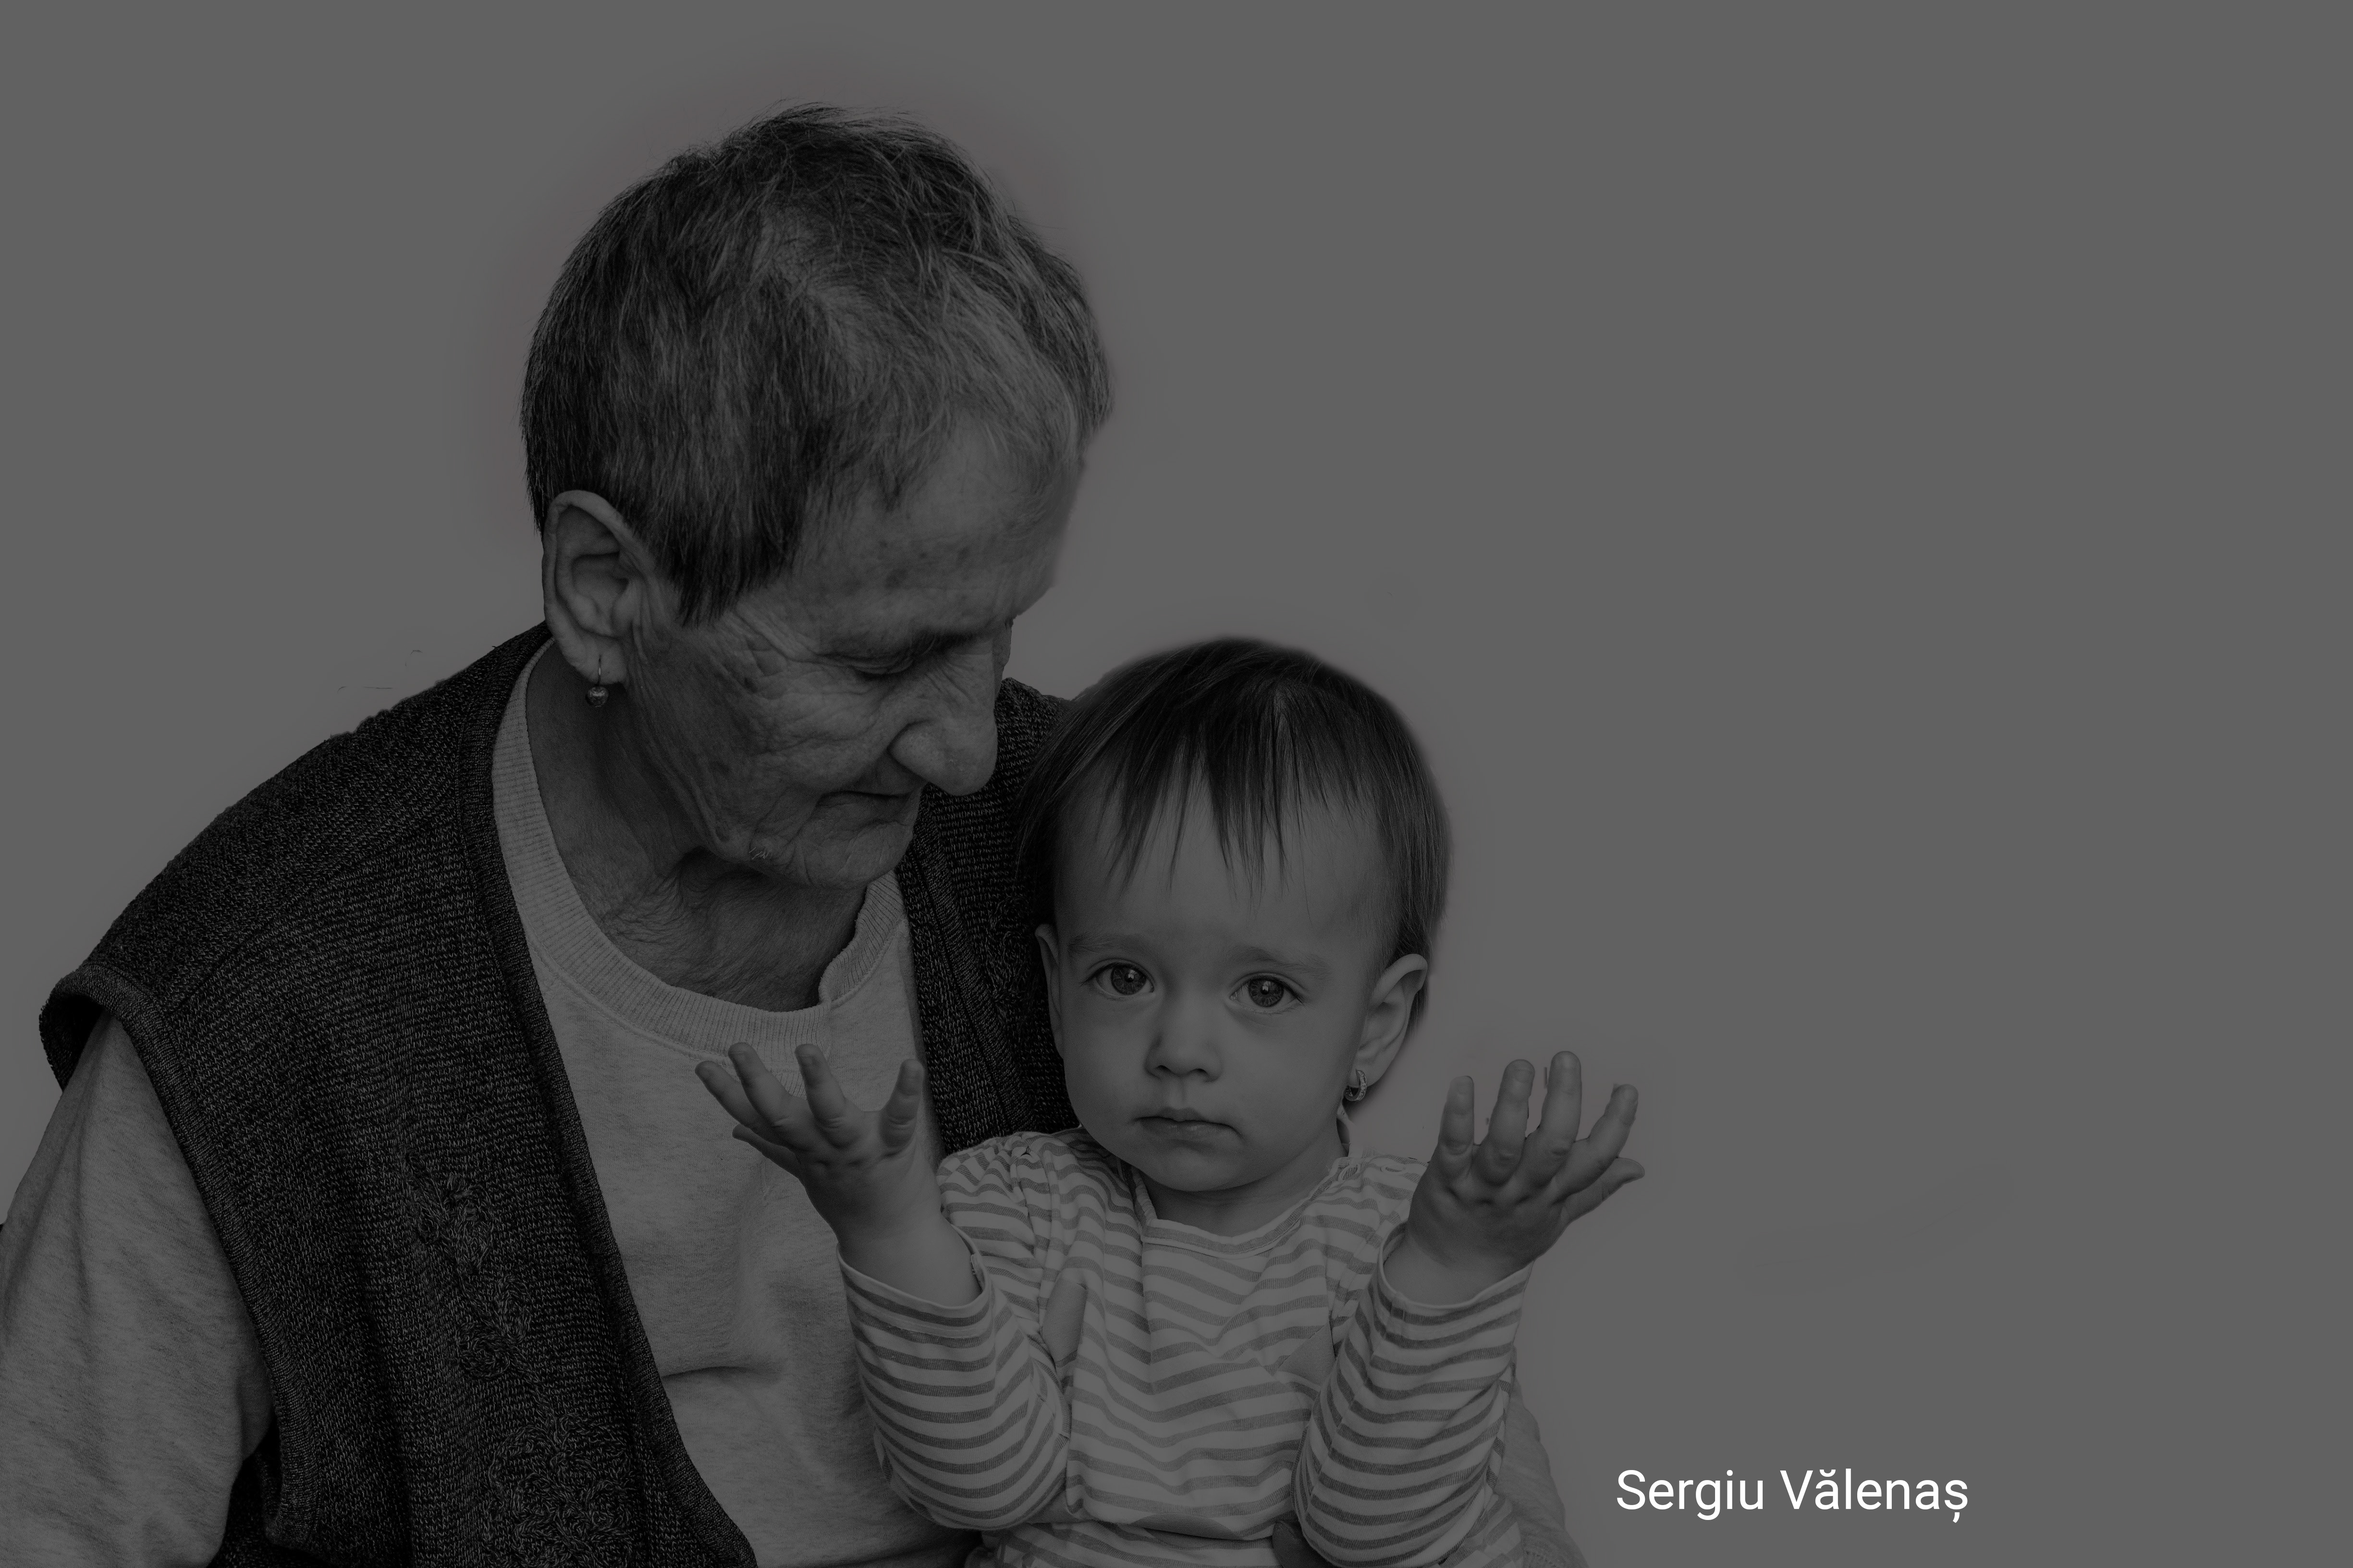
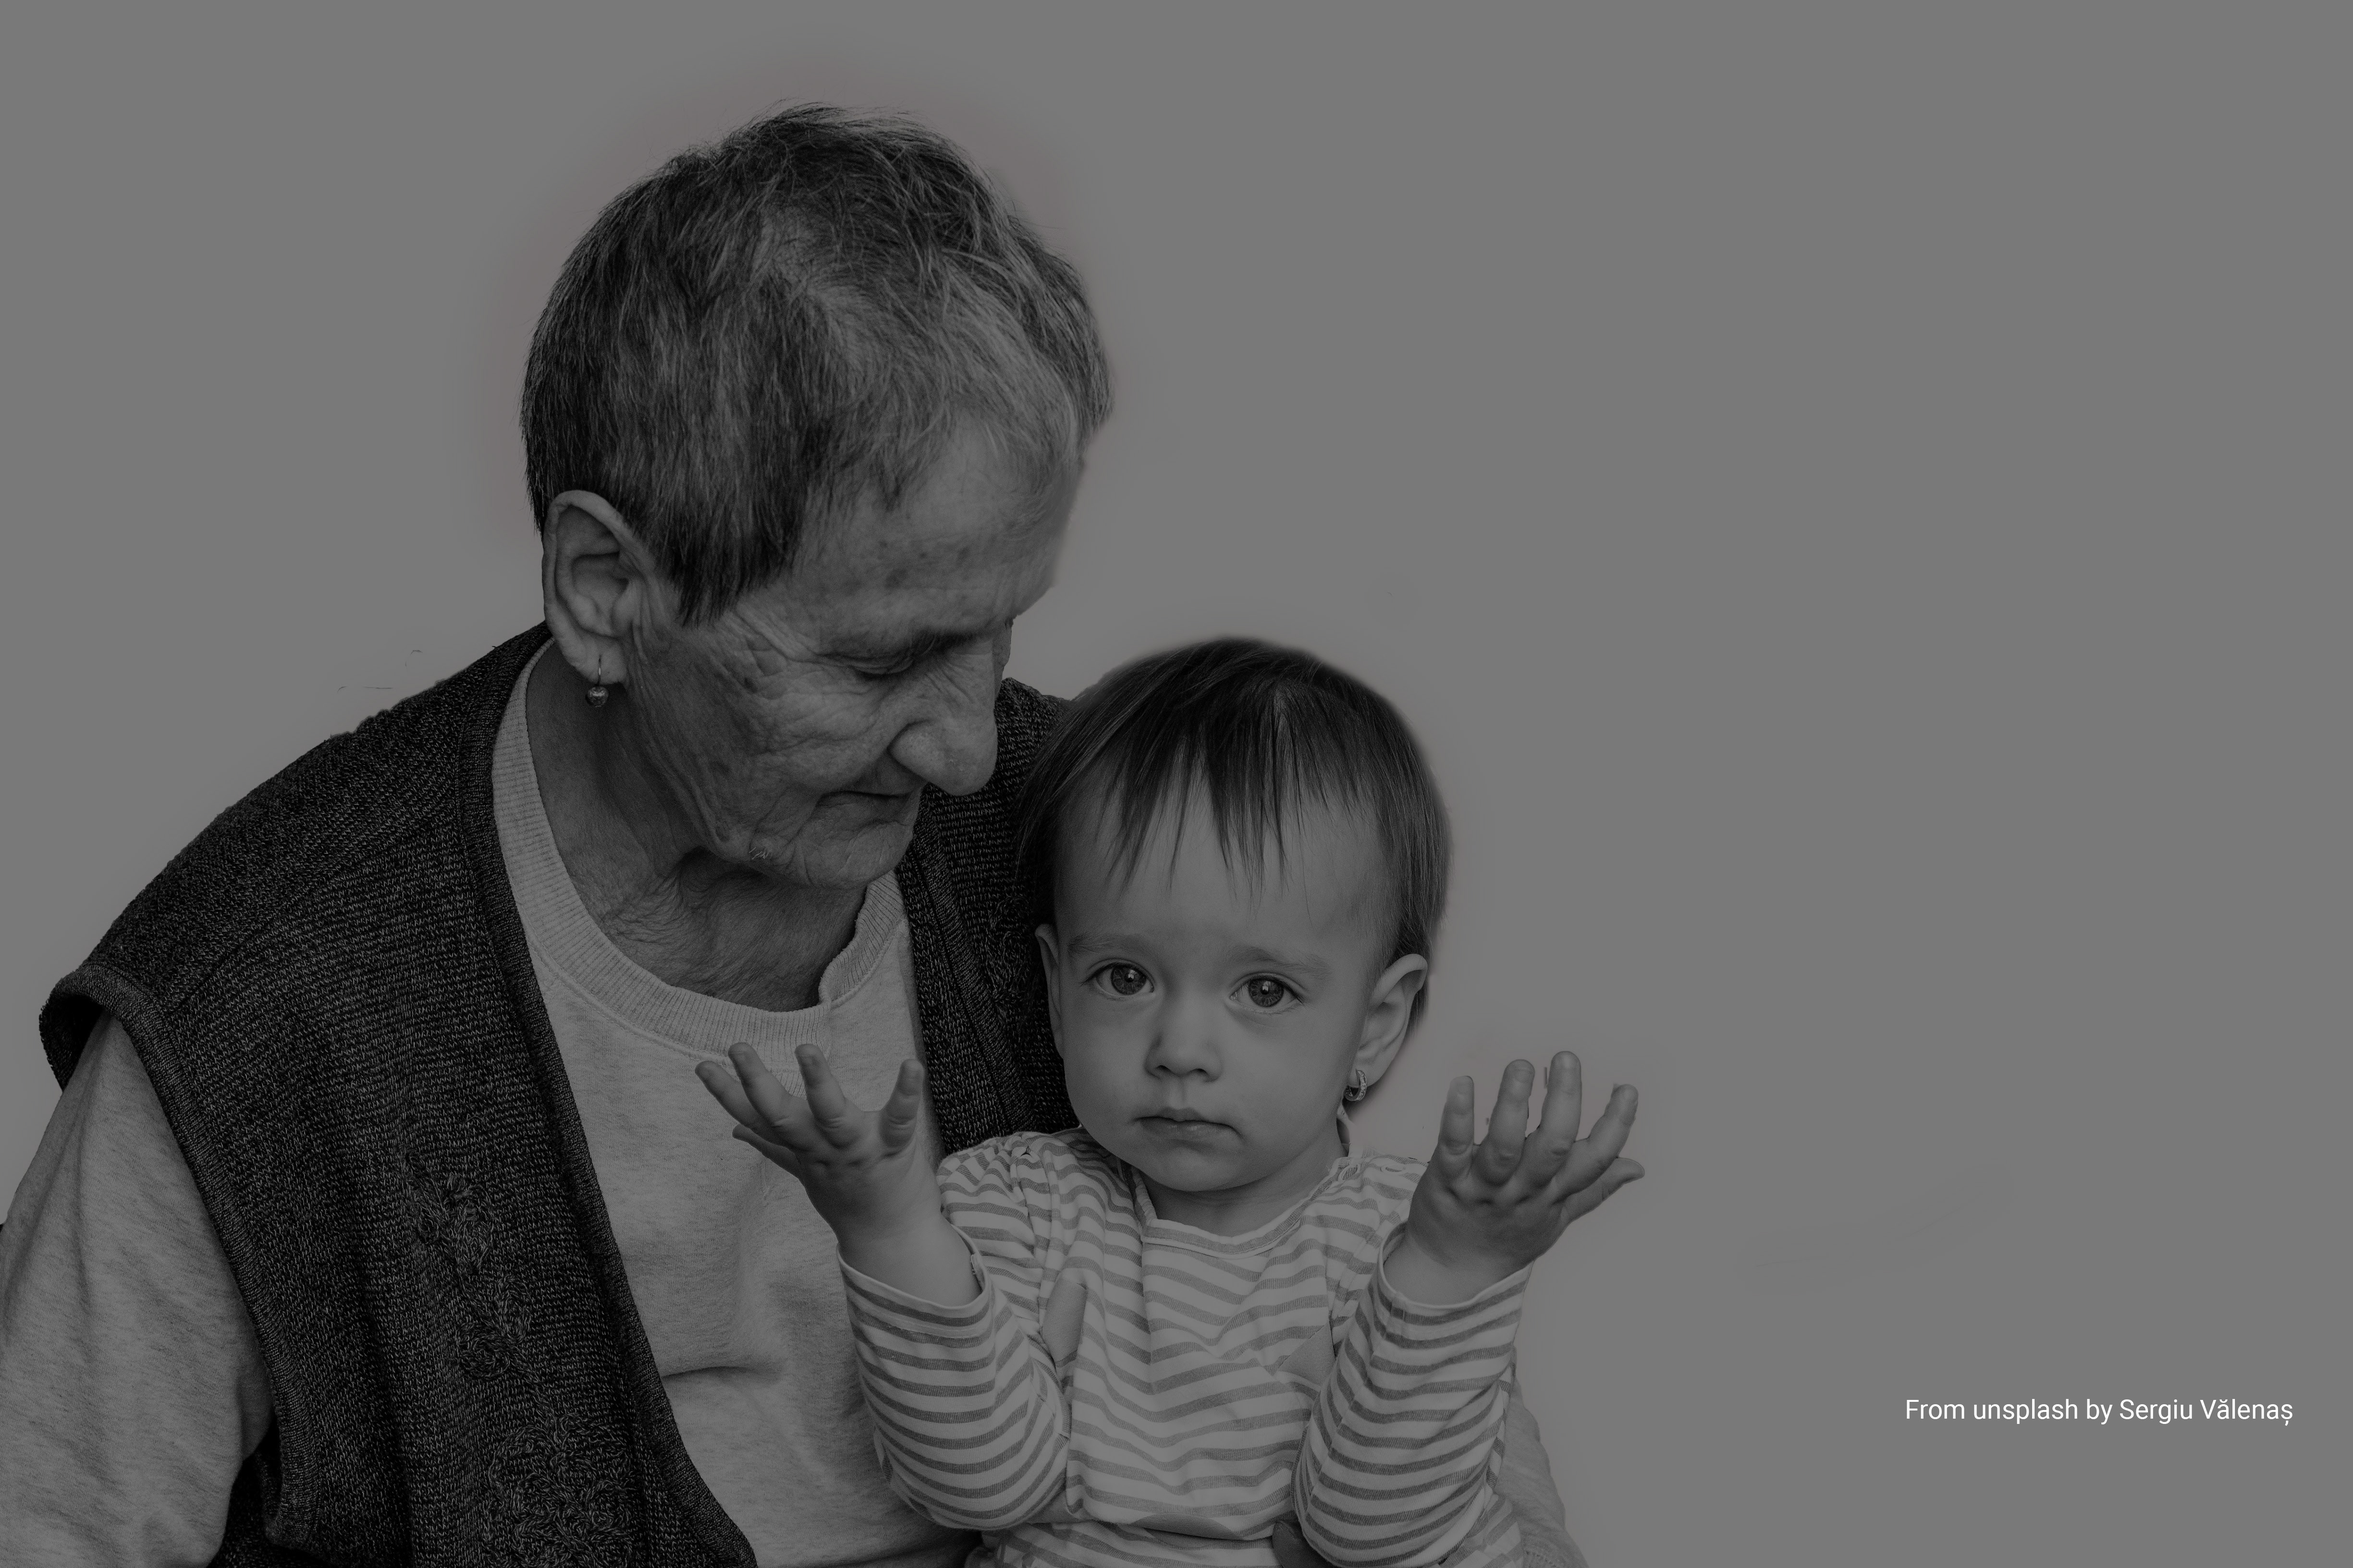
Final Index Render!

diff --git a/index.css b/index.css
@@ -1,20 +1,13 @@
 /*Import minimista*/
 
 /* Background slide */
-@-webkit-keyframes bg-pan-tl {
-    0% {
-      background-position: 100% 100%;
-    }
-    100% {
-      background-position: 0% 0%;
-    }
-  }
   @keyframes bg-pan-tl {
-    0% {
+    
+    from {
       background-position: 100% 100%;
     }
-    100% {
-      background-position: 0% 0%;
+    to {
+      background-position: 80% 80%;
     }
   } 
 /* Image Part of Home Page*/
@@ -58,15 +51,12 @@
     align-items: center;
     font-size: 30px;
 }
-
-.mentionImgIndex{
+.mentionImg{
     width: 100%;
     display: flex;
     justify-content: flex-end;
     align-items: flex-end;
     flex-direction: column;
-}
-.mentionImg{
     color: white;
     font-size: 10px;
 }
@@ -79,6 +69,7 @@
     row-gap: 2px;
     column-gap: 2px;
     overflow: hidden;
+    
 }
 .h2Title{
     font-size: 45px;
@@ -218,9 +209,7 @@ a.adultsCard:hover{
         grid-template-rows: 350px 350px ;
         row-gap: 2px;
         column-gap: 2px;
-        overflow: hidden;
     }
-
     .ytFrameCard{
         width: 100%;
         height: 350px;
@@ -243,9 +232,10 @@ a.adultsCard:hover{
         flex-direction: column;
         cursor: pointer;
         background-size: cover;
-        animation: bg-pan-tl 10s backwards;
         color: white;
         font-size: 2rem;
+        animation: bg-pan-tl 2s;
+        animation-fill-mode: forwards;
     }
     .childrenAdults{
         display: flex;
@@ -262,12 +252,13 @@ a.adultsCard:hover{
         overflow: hidden;
         background: url('img/marco-bianchetti.jpg')no-repeat center center;
         background-size: cover;
-        animation: bg-pan-tl 10s backwards;
         font-size: 2rem;
         display: flex;
         justify-content: center;
         align-items: center;
         flex-direction: column;
+        animation: bg-pan-tl 2s;
+        animation-fill-mode: forwards;
     }
     
     .systemCard{
@@ -275,12 +266,13 @@ a.adultsCard:hover{
         background: url('img/frenchSystem.jpg')no-repeat center center;
         background-size: cover;   
         cursor: pointer;
-        animation: bg-pan-tl 10s backwards;
         font-size: 2rem;
         display: flex;
         justify-content: center;
         align-items: center;
         flex-direction: column;
+        animation: bg-pan-tl 2s;
+        animation-fill-mode: forwards;
     }
     .aArticleCard{
         color: white;
@@ -297,7 +289,15 @@ a.adultsCard:hover{
         margin: 20px;
         
     }
-
+    .methodesCard, .helpCard, .systemCard {
+        opacity: 0.9;
+        transition: transform .5s ease-in-out,
+                    opacity 0.5s ease-in-out;
+    }
+    .methodesCard:hover, .helpCard:hover, .systemCard:hover{
+        opacity: 1;
+        transform: scale(1.01);
+    }
 }
 
 

diff --git a/index.php b/index.php
@@ -7,9 +7,6 @@
     <link rel="stylesheet" href="index.css">
     <link rel="stylesheet" href="footer.css">
     <link rel="stylesheet" href="header.css">
-    <script type="text/javascript" src="http://ajax.googleapis.com/ajax/libs/jquery/1.8/jquery.min.js"></script>
-    <script src="script.js"></script>
-
 
     <!-- Bibilotheque de logo svg par exemple pour le bouton menu sandwich-->
     <script src="https://kit.fontawesome.com/a076d05399.js"></script>
@@ -18,21 +15,18 @@
 </head>
 <body>
     <?php include("header.php")?>
+    <main>
     <div class='imageCard'>
         <div class="textOnImage">
             <p class="presentation1">
-                vous ou un de vos proches se sent stressé, mal dans sa peau, en proie à des troubles du comportement?</br>
+                vous ou un de vos proches se sent stressé, mal dans sa peau, en proie à des troubles du comportement?<br>
                 Nous vous proposons des professionnels compétents vers qui vous tourner ainsi que les gestes à adopter.
             </p>
-            <div class="mentionImgIndex">
-                <p class="mentionImg">
-                    @cristian_newman
-                </p>
-            </div>
+            <p class="mentionImg">
+                @cristian_newman
+            </p>
         </div>
     </div>
-    <main>
-
         <div class="gridMain">
             <div class='ytFrameCard'>
                 <iframe id="ytplayer" type="text/html" width="640" height="360" frameborder="0"
@@ -42,15 +36,15 @@
             <div class="methodesCard">
                 <h2 class="h2Title">METHODES</h2>
                 <p>
-                    Témoignages, articles </br> et professionnels de santé 
+                    Témoignages, articles <br> et professionnels de santé 
                 </p>
                 <div class="childrenAdults">
                     <a class="childrenCard" target=”_blank” href="page_enfant.php">
-                    Enfants
+                        Enfants
                     </a>
                     <a class="adultsCard" target=”_blank” href="page_adulte.php">
-                    Adultes
-                    </a>  
+                        Adultes
+                    </a>
                 </div>
             </div>
             <div class="helpCard">
@@ -63,14 +57,11 @@
             <div class="systemCard">
                 <h2 class="h2Title">LE SYSTEME DE SANTE FRANCAIS</h2>
                 <a class="aArticleCard" target=”_blank” href="page_infoSysteme.php">
-                    <p>
-                        Prise en charge, assurance maladie, <br> divers praticiens
-                    </p>
+                    Prise en charge, assurance maladie, <br> divers praticiens
                 </a>
             </div>
         </div>
     </main>
         <?php include('footer.php');?>
-         
 </body>
 </html>
